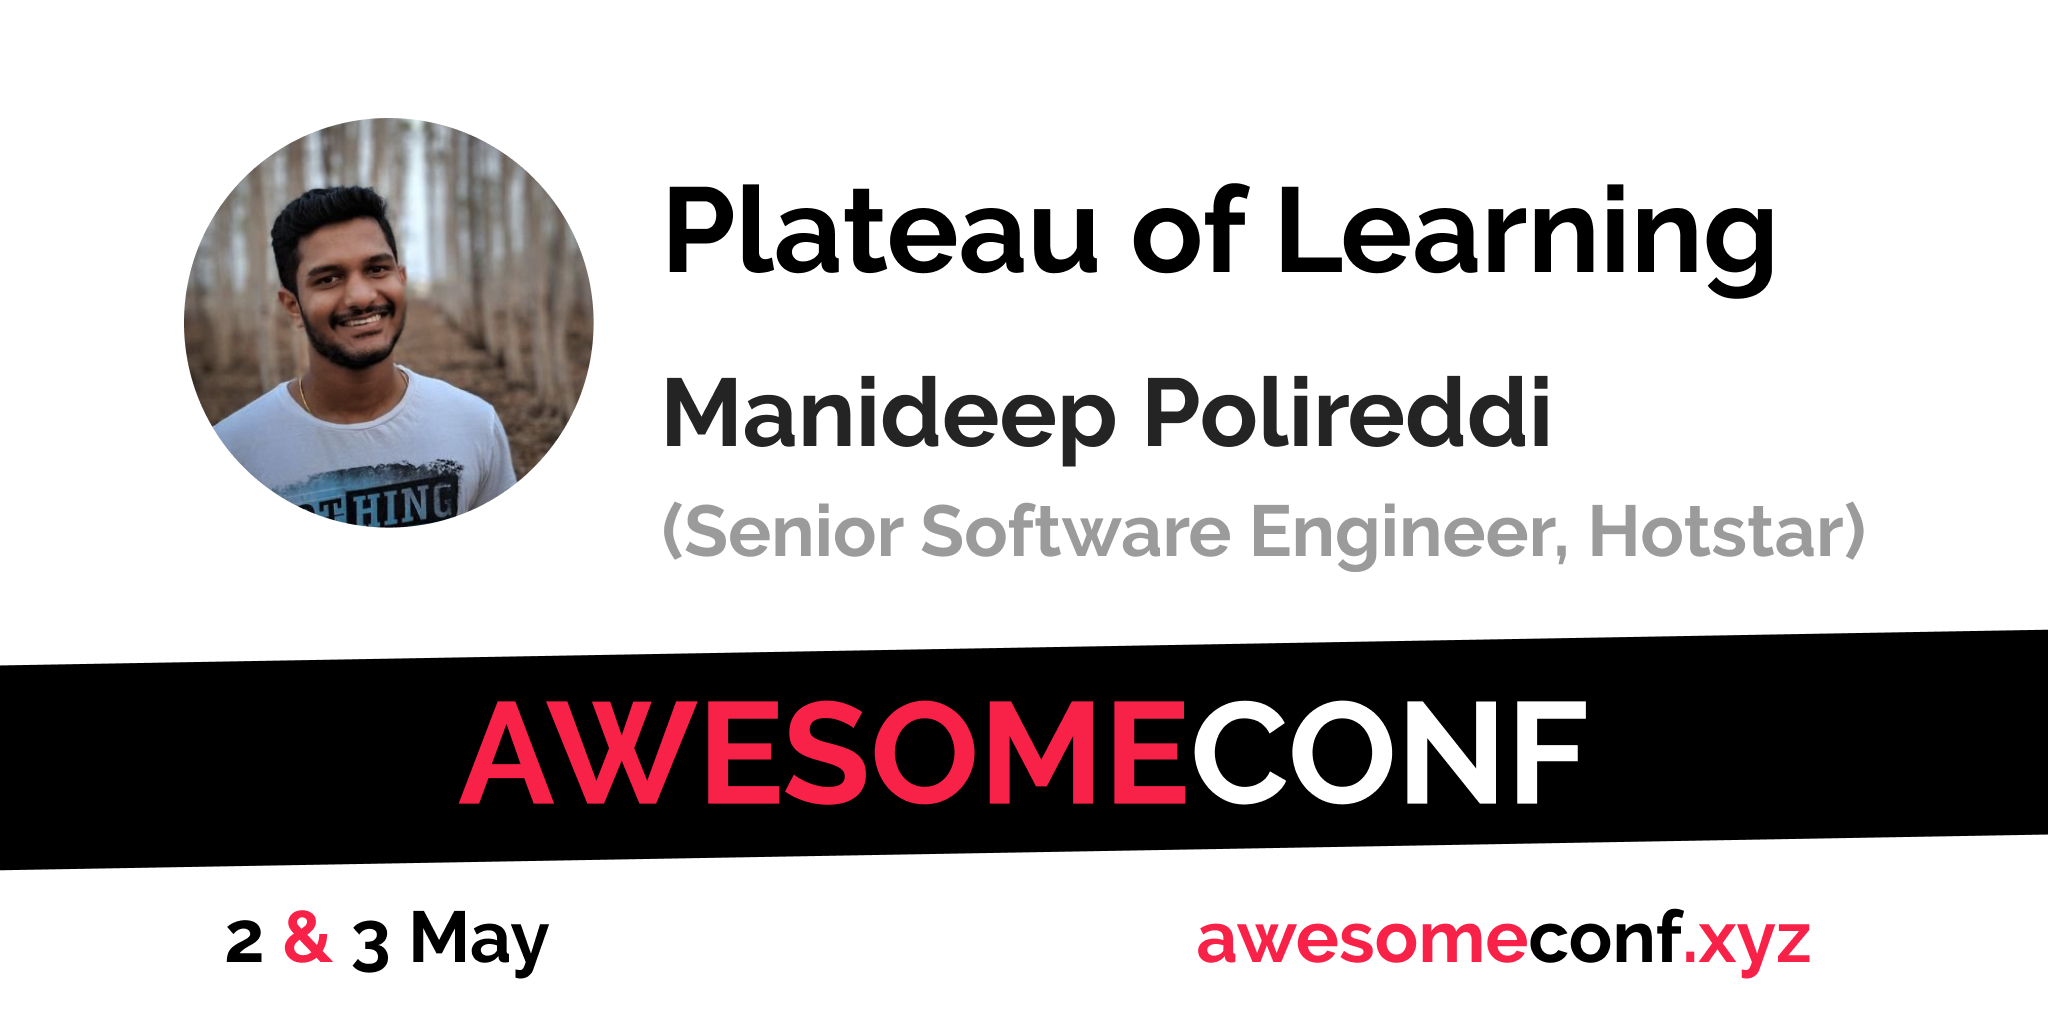
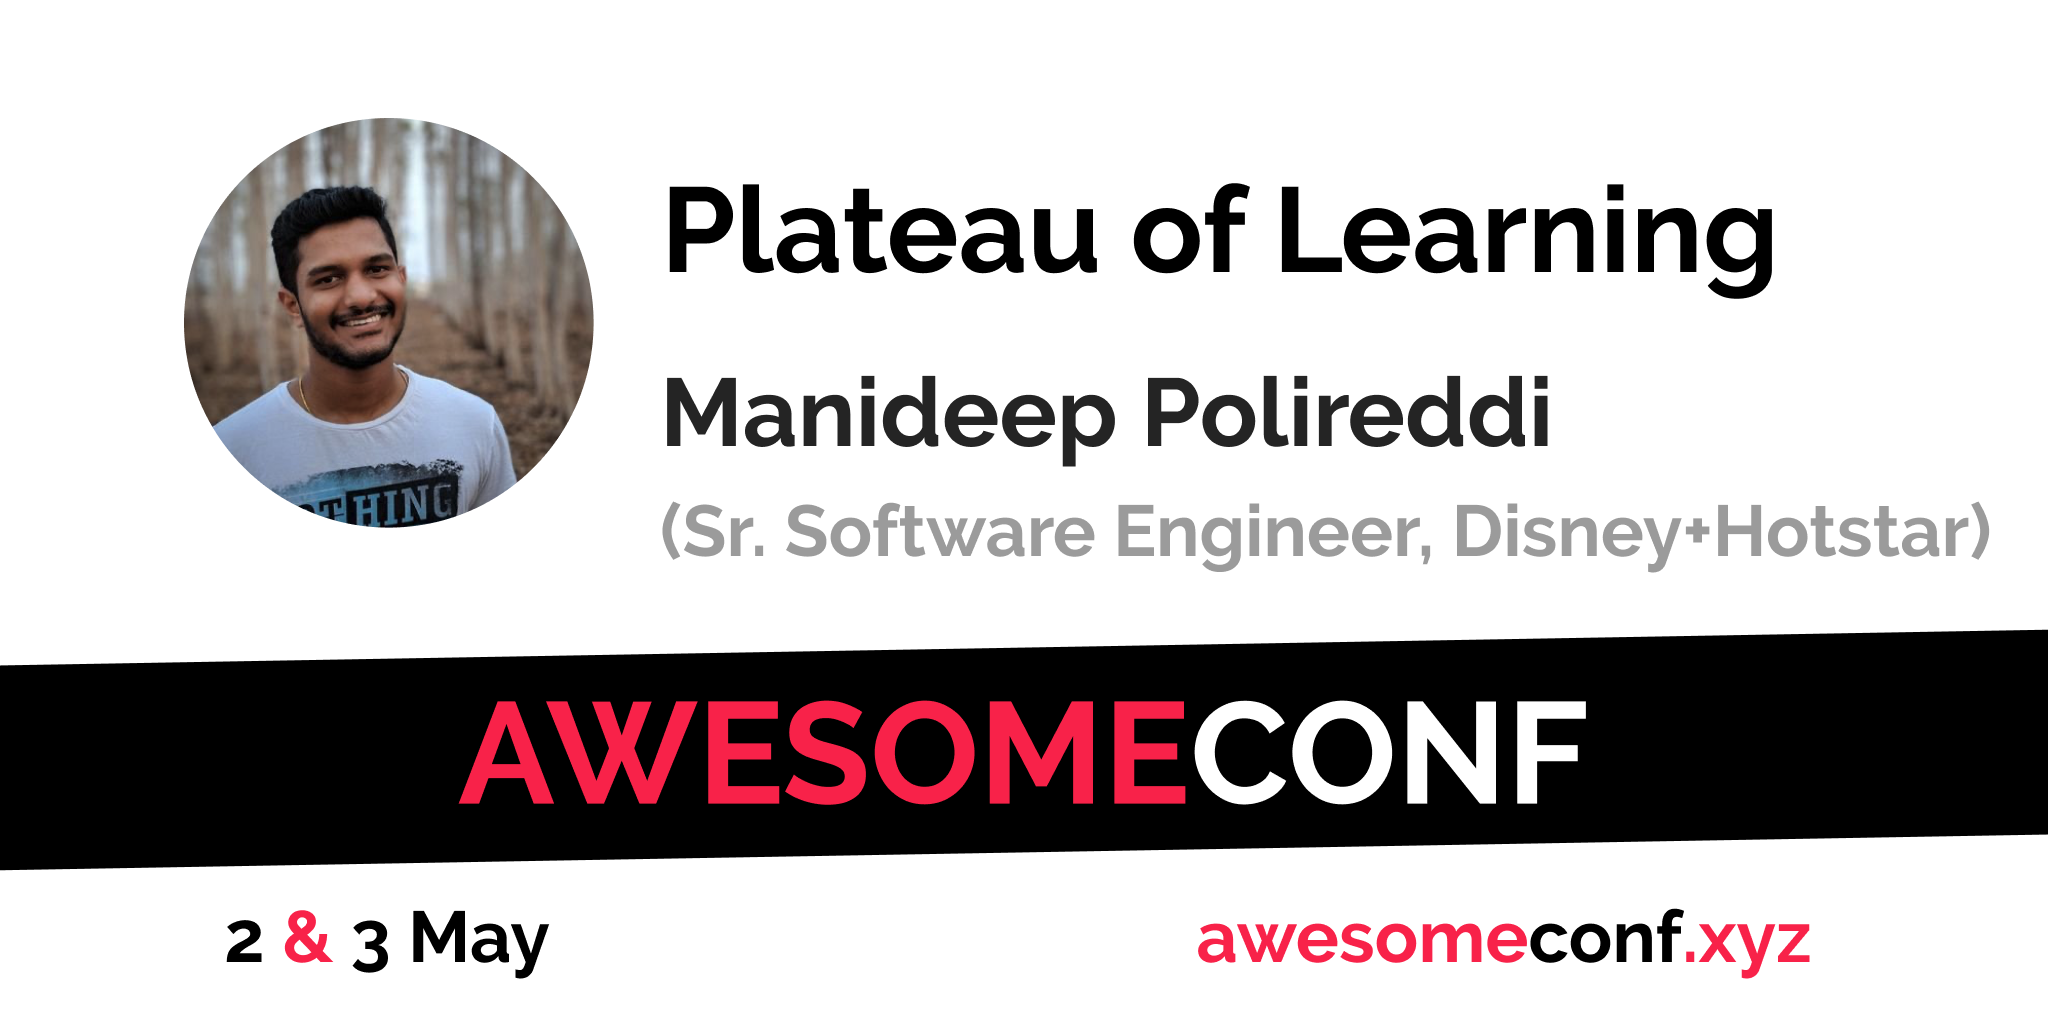
fix

Changed region(s): [[0.3125, 0.4688, 0.9688, 0.5625]]

diff --git a/index.html b/index.html
@@ -223,7 +223,7 @@
                         <a href="https://twitter.com/okmanideep" target="_blank"
                           rel="noreferrer noopener">Manideep Polireddi</a>
                       </h5>
-                      <p>Senior Software Engineer, Hotstar</p>
+                      <p>Senior Software Engineer, Disney+Hotstar</p>
                     </div>
                   </section>
 
@@ -275,7 +275,7 @@
                       <p>Product Leader, Bright Money</p>
                     </div>
                   </section>
-                  
+
                   <section class="panellist">
                     <img src="assets/img/speakers/2.jpg" alt="Ved Antani">
                     <div class="details">
